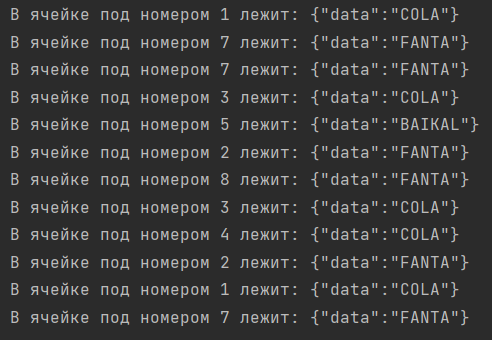
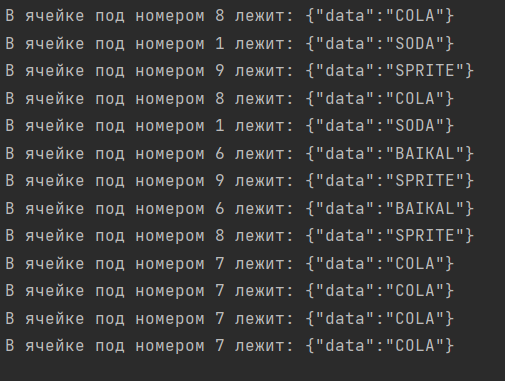
fixed Task1, Task8, Task9, Task11, Task12

Changed region(s): [[0.0, 0.0882, 0.9756, 0.7059], [0.0, 0.7353, 0.9451, 0.9706], [0.0, 0.0, 0.9451, 0.0588]]

diff --git a/Homework-1/src/main/java/Task9/Task9.java b/Homework-1/src/main/java/Task9/Task9.java
@@ -10,12 +10,18 @@ public class Task9 {
         ArrayList<Integer> arrList = new ArrayList<>();
         LinkedList<Integer> linkedList = new LinkedList<>();
         Integer[] arr = {1, 2, 3, 4, 5, 6, 7, 8, 9, 10};
-        System.out.println("Среднее время добавления числа в ArrayList, в нанос: " + testAdding(arrList, arr));
-        System.out.println("Среднее время добавления числа в LinkedList, в нанос: " + testAdding(linkedList, arr));
-        System.out.println("Время удаления первого числа в ArrayList, в нанос: " + testDeleting(arrList, 0));
-        System.out.println("Время удаления первого числа в LinkedList, в нанос: " + testDeleting(linkedList, 0));
-        System.out.println("Время удаления последнего числа в ArrayList, в нанос: " + testDeleting(arrList, 8));
-        System.out.println("Время удаления последнего числа в LinkedList, в нанос: " + testDeleting(linkedList, 8));
+        System.out.println("Среднее время добавления числа в ArrayList, в нанос: " +
+                testAddingToArrayList(arrList, arr));
+        System.out.println("Среднее время добавления числа в LinkedList, в нанос: " +
+                testAddingToLinkedList(linkedList, arr));
+        System.out.println("Время удаления первого числа в ArrayList, в нанос: " +
+                testDeletingFromArrayList(arrList, 0));
+        System.out.println("Время удаления первого числа в LinkedList, в нанос: " +
+                testDeletingFromLinkedList(linkedList, 0));
+        System.out.println("Время удаления последнего числа в ArrayList, в нанос: " +
+                testDeletingFromArrayList(arrList, 8));
+        System.out.println("Время удаления последнего числа в LinkedList, в нанос: " +
+                testDeletingFromLinkedList(linkedList, 1));
         System.out.println("Время удаления всех чисел больших 2 в ArrayList, в нанос: " +
                 testDeleteIfGreater(arrList,3));
         System.out.println("Время удаления всех чисел больших 2 в LinkedList, в нанос: " +
@@ -30,19 +36,25 @@ public class Task9 {
             str[i] = el.toString();
         }
         System.out.println("-------------------------------------------------------------------------------");
-        System.out.println("Среднее время добавления строки в ArrayList, в нанос: " + testAdding(arrStr, str));
-        System.out.println("Среднее время добавления строки в LinkedList, в нанос: " + testAdding(linkedStr, str));
-        System.out.println("Время удаления первой строки в ArrayList, в нанос: " + testDeleting(arrStr, 0));
-        System.out.println("Время удаления первой строки в LinkedList, в нанос: " + testDeleting(linkedStr, 0));
-        System.out.println("Время удаления последней строки в ArrayList, в нанос: " + testDeleting(arrStr, 8));
-        System.out.println("Время удаления последней строки в LinkedList, в нанос: " + testDeleting(linkedStr, 8));
+        System.out.println("Среднее время добавления строки в ArrayList, в нанос: " +
+                testAddingToArrayList(arrStr, str));
+        System.out.println("Среднее время добавления строки в LinkedList, в нанос: " +
+                testAddingToLinkedList(linkedStr, str));
+        System.out.println("Время удаления первой строки в ArrayList, в нанос: " +
+                testDeletingFromArrayList(arrStr, 0));
+        System.out.println("Время удаления первой строки в LinkedList, в нанос: " +
+                testDeletingFromLinkedList(linkedStr, 0));
+        System.out.println("Время удаления последней строки в ArrayList, в нанос: " +
+                testDeletingFromArrayList(arrStr, 8));
+        System.out.println("Время удаления последней строки в LinkedList, в нанос: " +
+                testDeletingFromLinkedList(linkedStr, 1));
         System.out.println("Время удаления всех строк длиннее 3 в ArrayList, в нанос: " +
                 testDeleteIfGreater(arrStr, 4));
         System.out.println("Время удаления всех строк длиннее 3 в LinkedList, в нанос: " +
                 testDeleteIfGreater(linkedStr, 4));
     }
 
-    public static <T> double testAdding(List<T> list, T[] elements) {
+    public static <T> double testAddingToArrayList(ArrayList<T> list, T[] elements) {
         long start, end;
         double res = 0;
         for (T el: elements) {
@@ -54,7 +66,18 @@ public class Task9 {
         return res / 10;
     }
 
-    public static <T> double testDeleting(List<T> list, int i) {
+    public static <T> double testAddingToLinkedList(LinkedList<T> list, T[] elements) {
+        long start, end;
+        double res = 0;
+        for (T el: elements) {
+            start = System.nanoTime();
+            list.addFirst(el);
+            end = System.nanoTime();
+            res += end - start;
+        }
+        return res / 10;
+    }
+    public static <T> double testDeletingFromArrayList(ArrayList<T> list, int i) {
         long start, end;
         start = System.nanoTime();
         list.remove(i);
@@ -62,6 +85,19 @@ public class Task9 {
         return end - start;
     }
 
+    public static <T> double testDeletingFromLinkedList(LinkedList<T> list, int mode) {
+        long start = 0, end = 0;
+        if (mode == 1) {
+            start = System.nanoTime();
+            list.removeLast();
+            end = System.nanoTime();
+        } else {
+            start = System.nanoTime();
+            list.removeFirst();
+            end = System.nanoTime();
+        }
+        return end - start;
+    }
     public static <T> double testDeleteIfGreater(List<T> list, int x) {
         Iterator<T> it = list.iterator();
         long start = System.nanoTime();

diff --git a/Homework-1/src/main/java/Task11/components/LRUCache.java b/Homework-1/src/main/java/Task11/components/LRUCache.java
@@ -16,15 +16,14 @@ public class LRUCache {
     }
 
     public JSONObject get(Integer id) {
+        if (lastFiveElements.size() == 5) {
+            cache.remove(lastFiveElements.poll());
+        }
         lastFiveElements.addLast(id);
         if (!cache.containsKey(id)) {
             JSONObject newItem = new JSONObject();
-            newItem.put("data", Data.values()[(int) (Math.random() * 4)]);
+            newItem.put("data", Data.values()[(int) (Math.random() * Data.values().length)]);
             cache.put(id, newItem);
-        }
-        if (lastFiveElements.size() > 5) {
-            lastFiveElements.poll();
-            System.out.println(lastFiveElements);
         }
         return cache.get(id);
     }

diff --git a/Homework-1/src/main/java/Task8/Task8.java b/Homework-1/src/main/java/Task8/Task8.java
@@ -25,7 +25,7 @@ public class Task8 {
     }
 
     public static int[] firstAlgorithm(int[] arr) throws ArrayModificationException {
-        int max = -100;
+        int max = Integer.MIN_VALUE;
         for (int el: arr) {
             max = Math.max(max, el);
         }
@@ -45,7 +45,7 @@ public class Task8 {
     }
 
     public static int[] secondAlgorithm(int[] arr) {
-        int max = -100;
+        int max = Integer.MIN_VALUE;
         for (int el: arr) {
             max = Math.max(max, el);
         }

diff --git a/Homework-1/src/main/java/Task1/components/A.java b/Homework-1/src/main/java/Task1/components/A.java
@@ -1,5 +1,7 @@
 package Task1.components;
 
+import java.util.Objects;
+
 public class A {
     private final int a;
     static int count = 0;
@@ -11,8 +13,10 @@ public class A {
 
     @Override
     public boolean equals(Object other) {
+        if (this == other) return true;
+        if (other == null || getClass() != other.getClass()) return false;
         A otherA = (A)(other);
-        return a == otherA.a;
+        return Objects.equals(a, otherA.a);
     }
 
     @Override

diff --git a/Homework-1/src/main/java/Task1/components/B.java b/Homework-1/src/main/java/Task1/components/B.java
@@ -1,5 +1,7 @@
 package Task1.components;
 
+import java.util.Objects;
+
 public class B {
     private final int b;
 
@@ -14,7 +16,9 @@ public class B {
 
     @Override
     public boolean equals(Object other) {
+        if (this == other) return true;
+        if (other == null || getClass() != other.getClass()) return false;
         B otherB = (B)(other);
-        return b == otherB.b;
+        return Objects.equals(b, otherB.b);
     }
 }

diff --git a/Homework-1/src/main/java/Task12/Task12.java b/Homework-1/src/main/java/Task12/Task12.java
@@ -4,7 +4,6 @@ import Task12.resources.Name;
 
 import java.io.FileWriter;
 import java.io.IOException;
-import java.io.OutputStream;
 
 public class Task12 {
     public static void main(String[] args) {

diff --git a/Homework-1/src/main/java/Task11/README.md b/Homework-1/src/main/java/Task11/README.md
@@ -1,7 +1,8 @@
 # Задание 11
 
-У меня почему-то не получилось сделать так, чтобы элементы удалялись
-из WeakHashMap, когда они не присутсвуют в LinkedList.
+Реализовал LRUCache с помощью WeakHashMap и LinkedList.
 
 Для того, чтобы запустить программу необходимо перейти в класс
 [*Task11*](./Task11.java) и запустить метод *main*
+
+Вывод: ![Alt Text](./resources/output1.png?raw=true)
